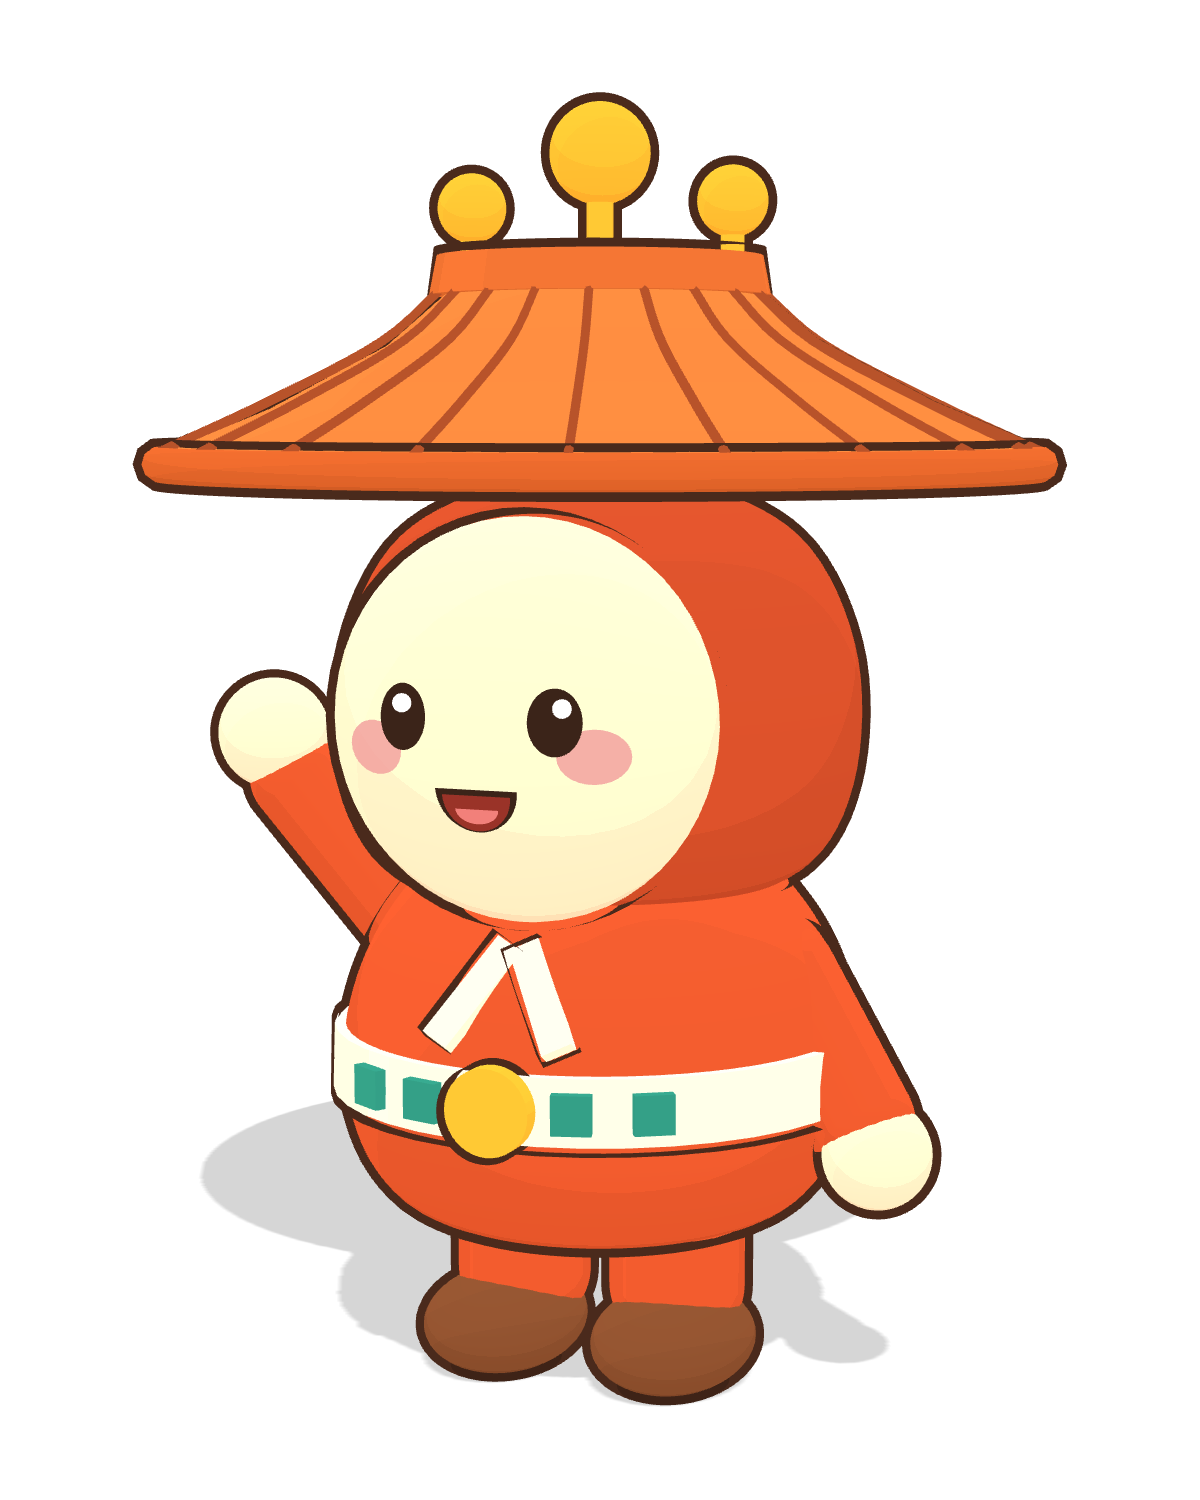
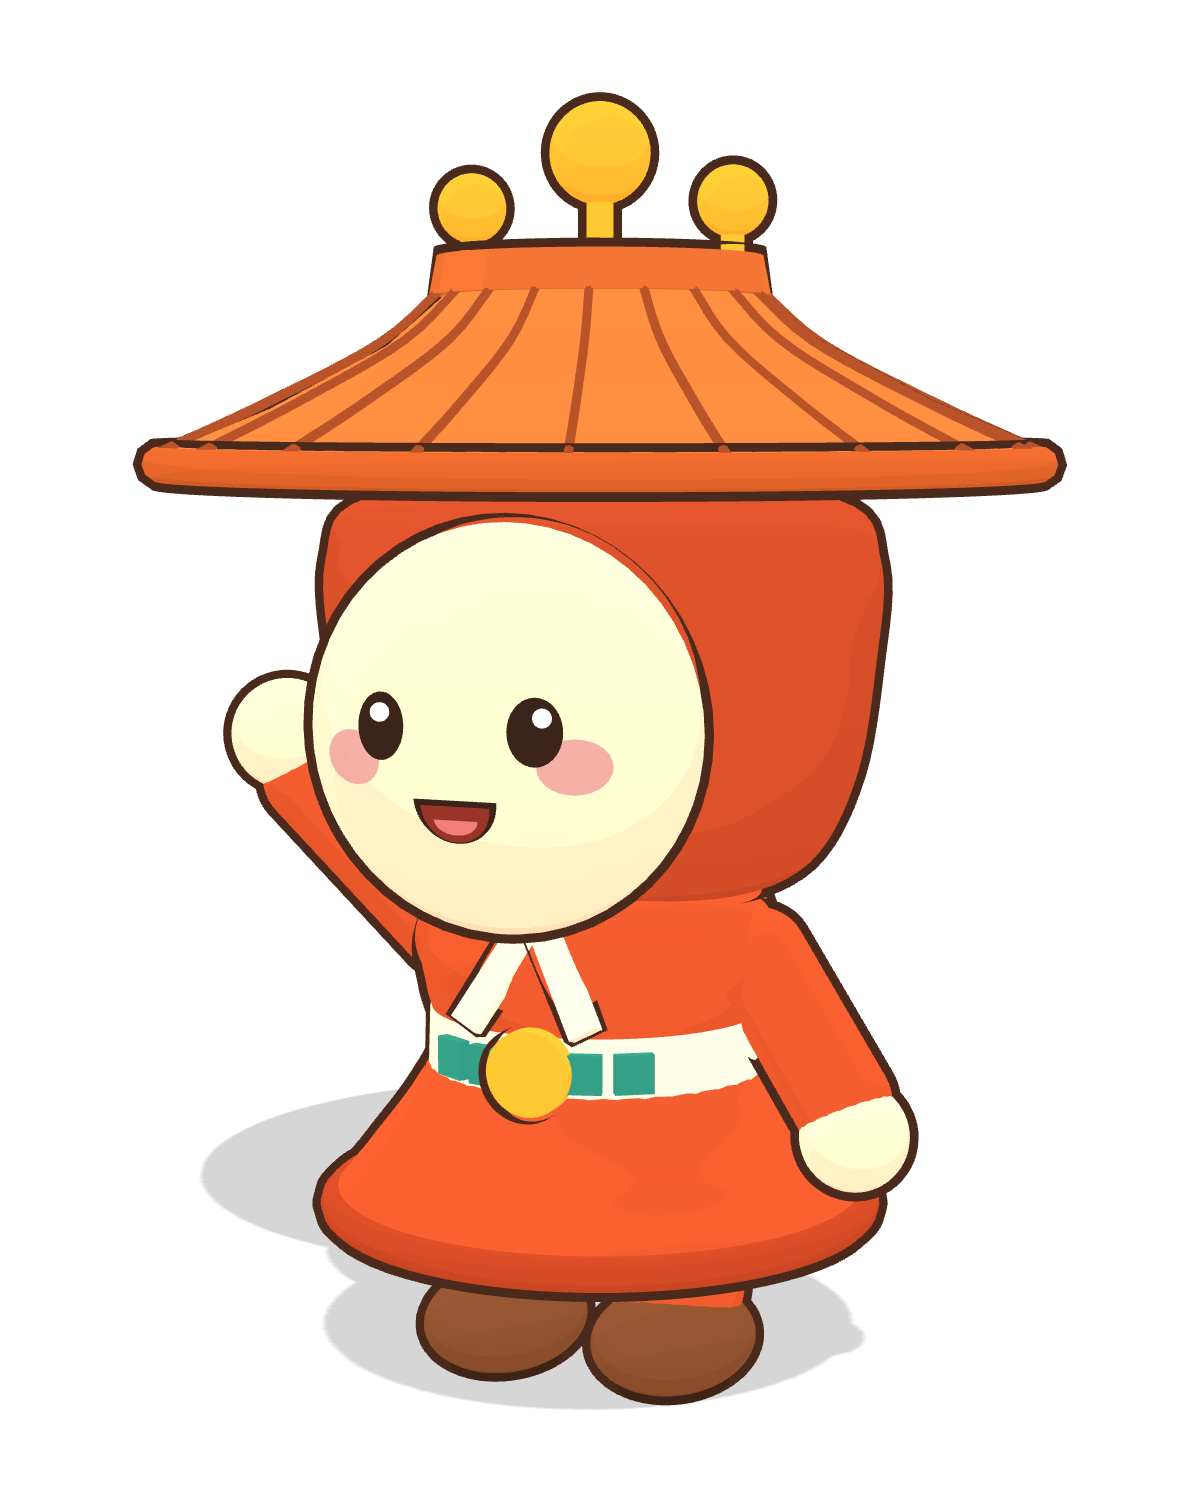
全全 3D：頭頂加寬、加上腰身與外張下擺

diff --git a/mascots3d.js b/mascots3d.js
@@ -153,10 +153,15 @@ function quanquan() {
     limb(g, [s * 0.22, 0.24, 0], [s * 0.22, 0.46, 0], 0.18, RED);
     part(S(0.21), SHOE, { parent: g, pos: [s * 0.24, 0.12, 0.08], scale: [1, 0.62, 1.3] });
   }
-  // 圓滾滾的身體：肚子鼓、往上收進頭底下
-  const bodyCurve = new THREE.SplineCurve([[0, 0.42], [0.42, 0.44], [0.6, 0.56], [0.68, 0.8], [0.65, 1.04], [0.54, 1.26], [0.36, 1.42], [0, 1.48]].map(([x, y]) => V2(x, y)));
-  const bodyPts = bodyCurve.getPoints(48);
+  // 身體：下擺外張 → 腰身收窄 → 胸口圓圓 → 往上收進頭底下
+  const bodyCurve = new THREE.SplineCurve([
+    [0, 0.42], [0.62, 0.42], [0.72, 0.46], [0.62, 0.6], [0.5, 0.76], [0.43, 0.9],
+    [0.46, 1.04], [0.47, 1.18], [0.36, 1.36], [0, 1.46],
+  ].map(([x, y]) => V2(x, y)));
+  const bodyPts = bodyCurve.getPoints(64);
   part(new THREE.LatheGeometry(bodyPts, 64), RED, { parent: g });
+  // 下擺滾邊
+  part(new THREE.TorusGeometry(0.7, 0.045, 12, 72), '#b54325', { parent: g, pos: [0, 0.46, 0], rot: [Math.PI / 2, 0, 0] });
   const bodyR = (y) => {
     for (let i = 0; i < bodyPts.length - 1; i++) {
       const a = bodyPts[i], b = bodyPts[i + 1];
@@ -164,8 +169,8 @@ function quanquan() {
     }
     return 0.6;
   };
-  // 腰帶（貼著肚子最鼓的地方）
-  const BY = 0.86, br = bodyR(BY);
+  // 腰帶（繫在腰身最細的地方）
+  const BY = 0.9, br = bodyR(BY);
   part(cyl(br + 0.02, br + 0.025, 0.17), WHITE, { parent: g, pos: [0, BY, 0] });
   for (const k of [-2, -1, 1, 2]) {
     const a = k * 0.28;
@@ -177,20 +182,20 @@ function quanquan() {
   // 白色交領（順著胸口的弧度）
   for (const s of [-1, 1]) {
     const c = part(box(0.08, 0.3, 0.04), WHITE, { parent: g });
-    c.position.set(s * 0.09, 1.12, bodyR(1.12) - 0.01);
-    c.rotation.set(-0.55, 0, s * 0.5);
+    c.position.set(s * 0.09, 1.14, bodyR(1.14) - 0.01);
+    c.rotation.set(-0.3, 0, s * 0.5);
   }
-  // 手：一手揮手、一手自然垂下（從圓肚子側邊長出來）
-  limb(g, [-0.52, 1.14, 0], [-0.84, 1.56, 0.1], 0.13, RED);
-  part(S(0.15), FACE, { parent: g, pos: [-0.9, 1.68, 0.12] });
-  limb(g, [0.52, 1.1, 0], [0.76, 0.76, 0.1], 0.13, RED);
-  part(S(0.14), FACE, { parent: g, pos: [0.8, 0.68, 0.12] });
+  // 手：一手揮手、一手自然垂下（從肩膀長出來）
+  limb(g, [-0.44, 1.16, 0], [-0.8, 1.56, 0.1], 0.13, RED);
+  part(S(0.15), FACE, { parent: g, pos: [-0.86, 1.68, 0.12] });
+  limb(g, [0.44, 1.14, 0], [0.7, 0.8, 0.1], 0.13, RED);
+  part(S(0.14), FACE, { parent: g, pos: [0.74, 0.72, 0.12] });
 
-  // 頭：圓潤的紅色頭罩，下緣往內收圓，與身體自然接在一起
-  const hoodCurve = new THREE.SplineCurve([[0, 0.04], [0.34, 0.0], [0.56, 0.08], [0.67, 0.3], [0.67, 0.62], [0.54, 0.9], [0.3, 1.04], [0, 1.08]].map(([x, y]) => V2(x, y)));
-  part(new THREE.LatheGeometry(hoodCurve.getPoints(48), 64), HOOD, { parent: g, pos: [0, 1.3, 0] });
+  // 頭：紅色頭罩，下緣往內收圓接身體，上半部保持寬（頭頂寬寬的戴屋頂）
+  const hoodCurve = new THREE.SplineCurve([[0, 0.04], [0.34, 0.0], [0.56, 0.08], [0.68, 0.3], [0.73, 0.6], [0.74, 0.86], [0.62, 1.02], [0, 1.08]].map(([x, y]) => V2(x, y)));
+  part(new THREE.LatheGeometry(hoodCurve.getPoints(48), 64), HOOD, { parent: g, pos: [0, 1.3, 0], scale: [1, 1, 0.8] });
   // 臉：正圓、整個露在頭罩前方（不被頭罩切成面具形），厚度壓扁避免像口鼻
-  const fc = [0, 1.79, 0.5], fr = [0.5, 0.5, 0.3];
+  const fc = [0, 1.78, 0.62], fr = [0.5, 0.5, 0.3];
   part(S(1), FACE, { parent: g, pos: fc, scale: fr });
   face(g, ellipsoidSurf(fc, fr), { eyes: 'open', size: 0.88, spread: 0.4, eyeY: 0.06, mouthY: -0.3, blushOut: 0.2, blushY: -0.16 });
 
